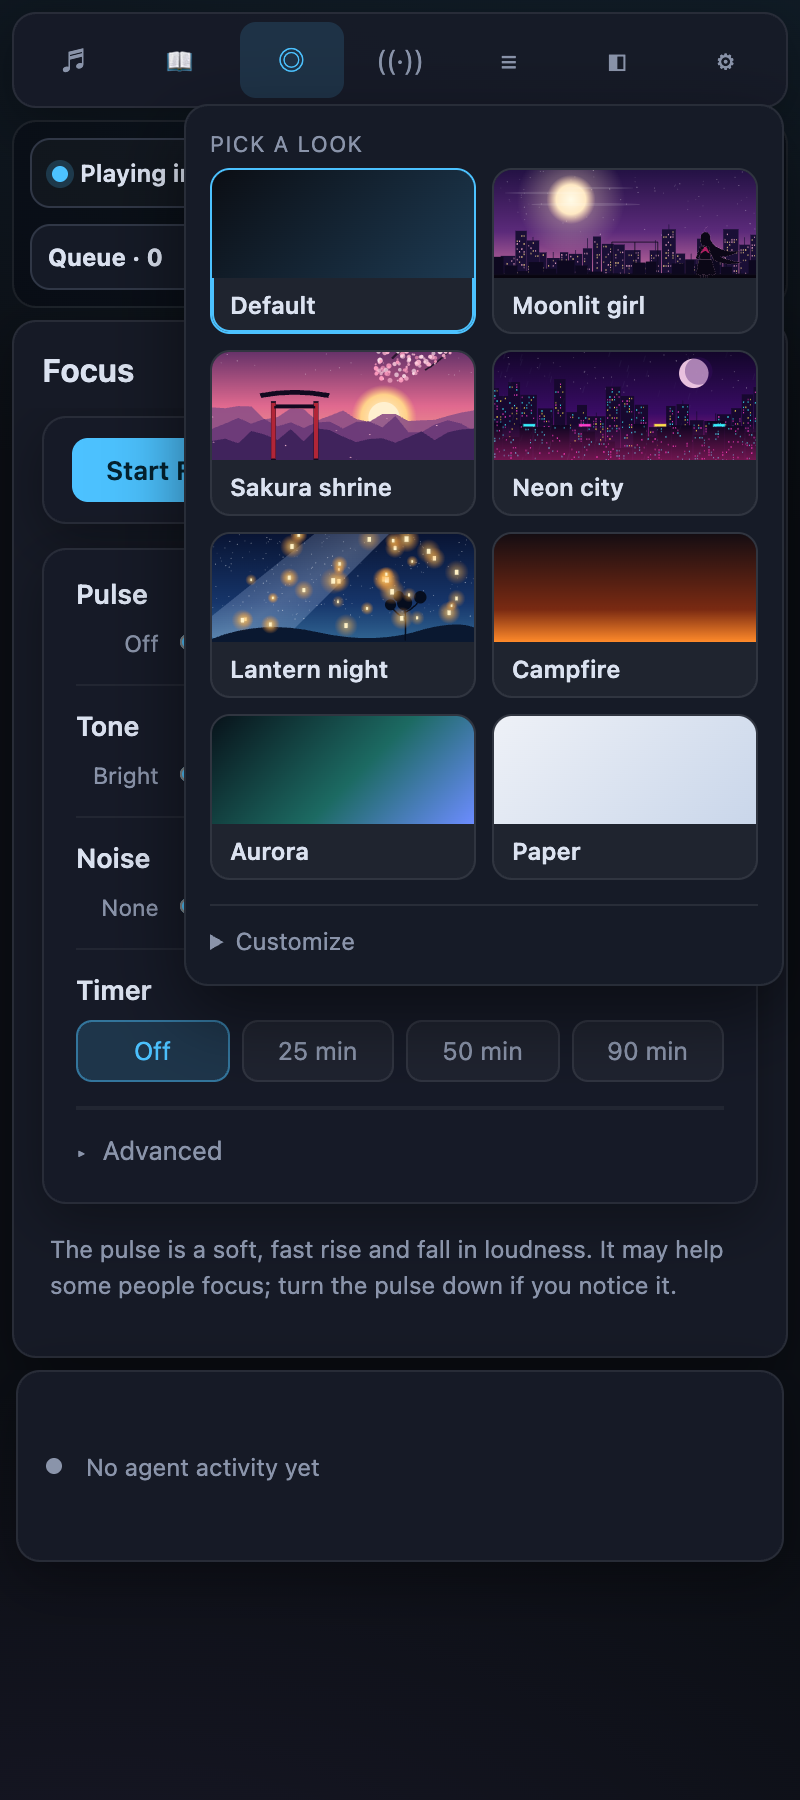
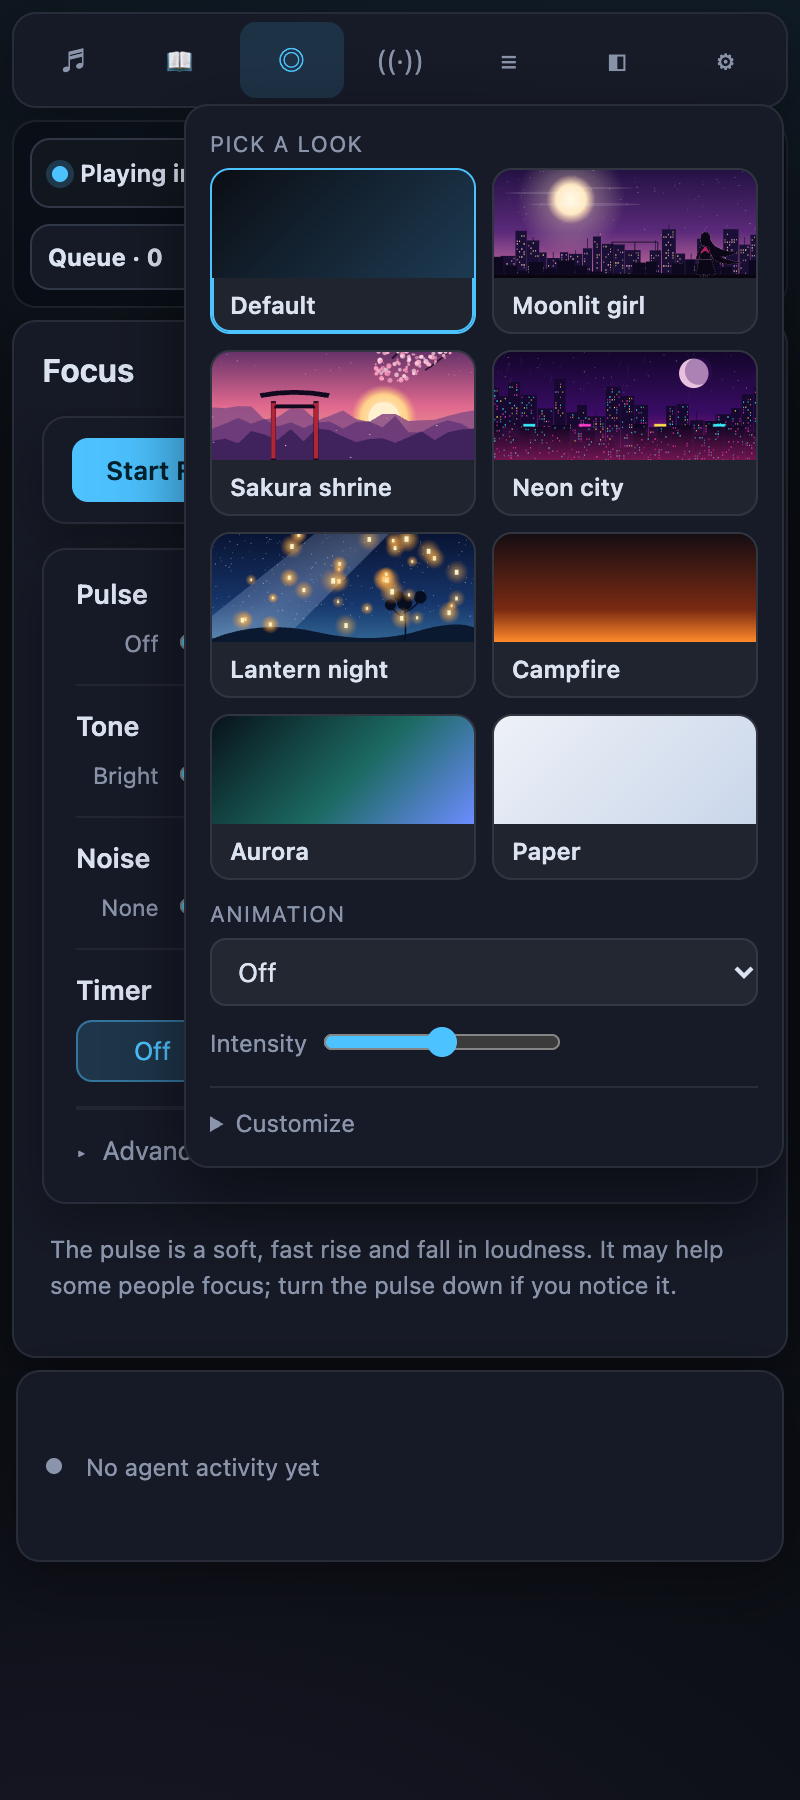
Add six more animated backdrops and an Animation dropdown
Snowfall, fireflies, bubbles, warp speed, thunderstorm and matrix code join
embers, fire, aurora, stars, rain and sakura (13 total). The effect picker is a
grouped dropdown placed directly under the Looks instead of chips inside Customize.

Changed region(s): [[0.2188, 0.4978, 0.9375, 0.6533], [0.3125, 0.6222, 0.4375, 0.6533]]

diff --git a/web/fx.js b/web/fx.js
@@ -4,13 +4,19 @@
 // Colours follow the active theme (--accent / --accent-2); fire keeps its own palette.
 
 export const FX_KINDS = [
-  { id: "off", name: "Off" },
-  { id: "embers", name: "Embers" },
-  { id: "fire", name: "Fire" },
-  { id: "aurora", name: "Aurora" },
-  { id: "stars", name: "Stars" },
-  { id: "rain", name: "Rain" },
-  { id: "sakura", name: "Sakura" },
+  { id: "off", name: "Off", group: "" },
+  { id: "embers", name: "Embers & sparks", group: "Warm" },
+  { id: "fire", name: "Fire", group: "Warm" },
+  { id: "sakura", name: "Sakura petals", group: "Nature" },
+  { id: "snow", name: "Snowfall", group: "Nature" },
+  { id: "fireflies", name: "Fireflies", group: "Nature" },
+  { id: "rain", name: "Rain", group: "Nature" },
+  { id: "storm", name: "Thunderstorm", group: "Nature" },
+  { id: "aurora", name: "Aurora", group: "Sky & space" },
+  { id: "stars", name: "Stars & shooting star", group: "Sky & space" },
+  { id: "warp", name: "Warp speed", group: "Sky & space" },
+  { id: "matrix", name: "Matrix code", group: "Tech & water" },
+  { id: "bubbles", name: "Bubbles", group: "Tech & water" },
 ];
 
 const SCALE = 0.5;
@@ -173,6 +179,110 @@ const EFFECTS = {
         ctx.globalAlpha = 0.75; ctx.fillStyle = `rgb(${p.col})`;
         ctx.beginPath(); ctx.ellipse(0, 0, p.r, p.r * 0.62, 0, 0, 6.2832); ctx.fill();
         ctx.restore();
+      }
+    },
+  },
+  snow: {
+    seed() { parts = Array.from({ length: count(0.0012, 24 * level, 220) }, () => this.flake(true)); },
+    flake(initial) { return { x: rnd(0, W), y: initial ? rnd(0, H) : -6, v: rnd(10, 32), r: rnd(0.8, 2.6), ph: rnd(0, 6.28), sw: rnd(4, 16) }; },
+    draw(dt, t) {
+      ctx.globalCompositeOperation = "source-over"; ctx.fillStyle = "#fff";
+      for (let i = 0; i < parts.length; i++) {
+        const p = parts[i];
+        p.y += p.v * dt; p.x += Math.sin(t * 0.8 + p.ph) * p.sw * dt;
+        if (p.y > H + 6) { parts[i] = this.flake(false); continue; }
+        ctx.globalAlpha = 0.35 + p.r / 5;
+        ctx.beginPath(); ctx.arc(p.x, p.y, p.r, 0, 6.2832); ctx.fill();
+      }
+    },
+  },
+  fireflies: {
+    seed() { parts = Array.from({ length: count(0.0003, 8 * level, 60) }, () => ({ x: rnd(0, W), y: rnd(0, H), a: rnd(0, 6.28), v: rnd(3, 10), ph: rnd(0, 6.28), sp: rnd(0.6, 1.6), r: rnd(3, 6.5) })); },
+    draw(dt, t) {
+      ctx.globalCompositeOperation = "lighter";
+      for (const p of parts) {
+        p.a += rnd(-1.2, 1.2) * dt; p.x += Math.cos(p.a) * p.v * dt; p.y += Math.sin(p.a) * p.v * dt;
+        if (p.x < -10) p.x = W + 10; if (p.x > W + 10) p.x = -10; if (p.y < -10) p.y = H + 10; if (p.y > H + 10) p.y = -10;
+        ctx.globalAlpha = Math.max(0, Math.sin(t * p.sp + p.ph)) ** 2;
+        const s = p.r * 2.4; ctx.drawImage(glow("200,255,120", 32), p.x - s / 2, p.y - s / 2, s, s);
+      }
+    },
+  },
+  bubbles: {
+    seed() {
+      this.col = hexRgb(themeColor("--accent", "#4cc2ff")).join(",");
+      parts = Array.from({ length: count(0.0005, 10 * level, 80) }, () => this.bub(true));
+    },
+    bub(initial) { return { x: rnd(0, W), y: initial ? rnd(0, H) : H + 14, r: rnd(3, 12), v: rnd(10, 30), ph: rnd(0, 6.28) }; },
+    draw(dt, t) {
+      ctx.globalCompositeOperation = "lighter"; ctx.lineWidth = 1;
+      for (let i = 0; i < parts.length; i++) {
+        const p = parts[i];
+        p.y -= p.v * dt; p.x += Math.sin(t * 1.1 + p.ph) * 8 * dt;
+        if (p.y < -16) { parts[i] = this.bub(false); continue; }
+        ctx.globalAlpha = 0.5; ctx.strokeStyle = `rgba(${this.col}, 0.8)`;
+        ctx.beginPath(); ctx.arc(p.x, p.y, p.r, 0, 6.2832); ctx.stroke();
+        ctx.globalAlpha = 0.5; ctx.fillStyle = "#fff"; ctx.fillRect(p.x - p.r * 0.45, p.y - p.r * 0.5, Math.max(1, p.r * 0.25), Math.max(1, p.r * 0.25));
+      }
+    },
+  },
+  warp: {
+    seed() { parts = Array.from({ length: count(0.0009, 30 * level, 260) }, () => this.star(true)); },
+    star(initial) { return { x: rnd(-1, 1), y: rnd(-1, 1), z: initial ? rnd(0.05, 1) : 1 }; },
+    draw(dt) {
+      ctx.globalCompositeOperation = "lighter"; ctx.lineWidth = 1;
+      const cx = W / 2, cy = H / 2, k = Math.max(W, H);
+      for (let i = 0; i < parts.length; i++) {
+        const p = parts[i], z0 = p.z; p.z -= dt * 0.45;
+        if (p.z <= 0.02) { parts[i] = this.star(false); continue; }
+        const x0 = cx + (p.x / z0) * k * 0.16, y0 = cy + (p.y / z0) * k * 0.16;
+        const x1 = cx + (p.x / p.z) * k * 0.16, y1 = cy + (p.y / p.z) * k * 0.16;
+        if (x1 < -20 || x1 > W + 20 || y1 < -20 || y1 > H + 20) { parts[i] = this.star(false); continue; }
+        ctx.globalAlpha = Math.min(1, (1 - p.z) * 1.4); ctx.strokeStyle = "#cfe6ff";
+        ctx.beginPath(); ctx.moveTo(x0, y0); ctx.lineTo(x1, y1); ctx.stroke();
+      }
+    },
+  },
+  storm: {
+    seed() { EFFECTS.rain.seed(); this.flash = 0; this.bolt = null; this.next = rnd(2, 5); },
+    draw(dt, t) {
+      EFFECTS.rain.draw(dt, t);
+      this.next -= dt;
+      if (this.next <= 0) {
+        this.flash = 1; this.next = rnd(4, 9);
+        const pts = [[rnd(W * 0.2, W * 0.8), 0]];
+        while (pts[pts.length - 1][1] < H * 0.7) { const l = pts[pts.length - 1]; pts.push([l[0] + rnd(-18, 18), l[1] + rnd(14, 34)]); }
+        this.bolt = pts;
+      }
+      if (this.flash > 0) {
+        ctx.globalCompositeOperation = "lighter"; ctx.globalAlpha = this.flash * 0.28; ctx.fillStyle = "#cfe0ff"; ctx.fillRect(0, 0, W, H);
+        if (this.bolt && this.flash > 0.5) {
+          ctx.globalAlpha = this.flash; ctx.strokeStyle = "#fff"; ctx.lineWidth = 1.6; ctx.beginPath();
+          this.bolt.forEach(([x, y], i) => (i ? ctx.lineTo(x, y) : ctx.moveTo(x, y))); ctx.stroke();
+        }
+        this.flash -= dt * 2.2;
+      }
+    },
+  },
+  matrix: {
+    seed() {
+      this.col = hexRgb(themeColor("--accent", "#4cc2ff"));
+      this.chars = "ｱｲｳｴｵｶｷｸｹｺｻｼｽｾｿﾀﾁﾂﾃﾄﾅﾆﾇﾈﾉﾊﾋﾌﾍﾎ0123456789";
+      const cols = Math.max(6, Math.floor(W / 9));
+      parts = Array.from({ length: cols }, (_, i) => ({ x: i * 9 + 4, y: rnd(-H, 0), v: rnd(30, 90) * (0.7 + level * 0.2), len: Math.floor(rnd(8, 18)) }));
+    },
+    draw(dt) {
+      ctx.globalCompositeOperation = "lighter"; ctx.font = "9px monospace"; ctx.textAlign = "center";
+      const [r, g, b] = this.col;
+      for (const p of parts) {
+        p.y += p.v * dt;
+        if (p.y - p.len * 10 > H) { p.y = rnd(-60, 0); p.v = rnd(30, 90) * (0.7 + level * 0.2); }
+        for (let k = 0; k < p.len; k++) {
+          const y = p.y - k * 10; if (y < -10 || y > H + 10) continue;
+          ctx.globalAlpha = k === 0 ? 0.95 : (1 - k / p.len) * 0.5;
+          ctx.fillStyle = k === 0 ? "#fff" : `rgb(${r},${g},${b})`;
+          ctx.fillText(this.chars[(Math.floor(y / 10) * 7 + p.x) % this.chars.length | 0], p.x, y);
+        }
       }
     },
   },

diff --git a/web/theme.js b/web/theme.js
@@ -201,12 +201,16 @@ export function mountThemeButton(head, before) {
     const reset = el("button", { class: "btn sm", type: "button" }, "Reset");
     reset.addEventListener("click", () => { state = { ...DEFAULTS }; bgData = null; bgNote = ""; explicitFx = false; try { localStorage.removeItem(BG_KEY); } catch { /* ignore */ } commit(); });
     accentRow.append(reset);
-    const fxGrid = el("div", { class: "theme-grid" });
+    const fxGrid = el("select", { class: "theme-select", "aria-label": "Animated effect" });
+    const groups = new Map();
     for (const f of FX_KINDS) {
-      const b = el("button", { class: "theme-chip", type: "button", "aria-pressed": String(state.fx === f.id) }, f.name);
-      b.addEventListener("click", () => { state.fx = f.id; explicitFx = true; touch(); });
-      fxGrid.append(b);
+      let host = fxGrid;
+      if (f.group) { if (!groups.has(f.group)) { const g = el("optgroup", { label: f.group }); groups.set(f.group, g); fxGrid.append(g); } host = groups.get(f.group); }
+      const o = el("option", { value: f.id }, f.name);
+      if (state.fx === f.id) o.selected = true;
+      host.append(o);
     }
+    fxGrid.addEventListener("change", () => { state.fx = fxGrid.value; explicitFx = true; touch(); });
     const level = el("input", { type: "range", min: "1", max: "3", step: "1", value: String(state.fxLevel), "aria-label": "Effect intensity" });
     level.addEventListener("input", () => { state.fxLevel = Number(level.value); explicitFx = true; applyTheme(); save(); });
     const fxRow = el("div", { class: "theme-row" }, el("label", { class: "theme-color" }, "Intensity", level));
@@ -249,10 +253,9 @@ export function mountThemeButton(head, before) {
       el("div", { class: "theme-h" }, "Colour scheme"), schemes,
       el("div", { class: "theme-h" }, "Scene"), scenes, imgRow,
       el("div", { class: "theme-h" }, "Gradient"), grads, customRow,
-      el("div", { class: "theme-h" }, "Effect"), fxGrid, fxRow,
       el("div", { class: "theme-h" }, "Accent"), accentRow,
     );
-    pop.append(el("div", { class: "theme-h" }, "Pick a look"), looks, more);
+    pop.append(el("div", { class: "theme-h" }, "Pick a look"), looks, el("div", { class: "theme-h" }, "Animation"), fxGrid, fxRow, more);
   };
   const commit = () => { applyTheme(); save(); render(); };
   const touch = () => { state.look = ""; commit(); };

diff --git a/web/app.css b/web/app.css
@@ -823,3 +823,6 @@ html[data-revamp-fx] .glass, html[data-revamp-bg] .glass { background: color-mix
 .theme-more { margin-top: 12px; border-top: 1px solid var(--glass-brd); padding-top: 8px; }
 .theme-more > summary { cursor: pointer; font-size: 12px; color: var(--txt-dim); padding: 2px 0; }
 .theme-more[open] > summary { margin-bottom: 4px; }
+.theme-select { width: 100%; padding: 7px 9px; font: inherit; font-size: 13px; color: var(--txt); background: rgba(255, 255, 255, 0.05); border: 1px solid var(--glass-brd); border-radius: 8px; }
+.theme-select:focus-visible { outline: 2px solid var(--accent); outline-offset: 1px; }
+.theme-select option, .theme-select optgroup { background: var(--panel-solid); color: var(--txt); }
